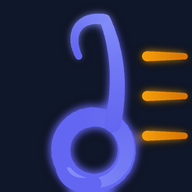
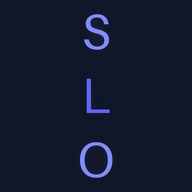
Simpelt ikon: S, L og O stablet lodret (S øverst, L midt, O nederst)

diff --git a/make_icon.py b/make_icon.py
@@ -1,6 +1,5 @@
-"""Songlist Organizer-ikon: g-nogle + listestroeger (simg saetliste)."""
-from PIL import Image, ImageDraw, ImageFilter
-import math
+"""Songlist Organizer-ikon: S, L, O stablet lodret (S oeverst, L midt, O nederst)."""
+from PIL import Image, ImageDraw, ImageFilter, ImageFont
 
 BG = (15, 23, 42)
 VIOLET = (129, 140, 248)
@@ -8,89 +7,32 @@ INDIGO = (99, 102, 241)
 GOLD = (245, 158, 11)
 
 
-def lerp(a, b, t):
-    return tuple(int(a[i] + (b[i] - a[i]) * t) for i in range(3))
-
-
-def bez(p0, p1, p2, p3, t):
-    mt = 1 - t
-    return (mt**3*p0[0] + 3*mt**2*t*p1[0] + 3*mt*t**2*p2[0] + t**3*p3[0],
-            mt**3*p0[1] + 3*mt**2*t*p1[1] + 3*mt*t**2*p2[1] + t**3*p3[1])
-
-
-def sample_bez(p0, p1, p2, p3, n):
-    return [bez(p0, p1, p2, p3, i/(n-1)) for i in range(n)]
-
-
-def arc_pts(cx, cy, r, a0, a1, n):
-    return [(cx + r*math.cos(math.radians(a0 + (a1-a0)*i/(n-1))),
-             cy + r*math.sin(math.radians(a0 + (a1-a0)*i/(n-1)))) for i in range(n)]
-
-
-def stroke(d, pts, radii, colors):
-    for i, (p, r, c) in enumerate(zip(pts, radii, colors)):
-        d.ellipse([p[0]-r, p[1]-r, p[0]+r, p[1]+r], fill=c+(255,))
-        if i > 0:
-            q = pts[i-1]
-            d.line([q[0], q[1], p[0], p[1]], fill=c+(255,), width=int(2*r))
-
-
-def clef_layers():
-    """Aegte g-nogle-form: bundspiral, lang stamme, krølle i toppen."""
-    layers = []
-    # 1) Bundspiral: stor rund loekke der snor sig ind i en spiral (g-noglens krop)
-    loop = arc_pts(250, 400, 88, 300, 980, 70)          # helt rundt og videre
-    spiral_in = arc_pts(250, 400, 88, 260, 500, 40)      # anden runde, let mindre
-    layers.append((loop, 20, 26, INDIGO, INDIGO))
-    layers.append((spiral_in, 26, 10, INDIGO, VIOLET))
-    # spiralens midtprik (g-noglens indre cirkel)
-    # 2) Stammen: fra loekkens topkryds og op til hoejre, let boejende
-    stem = sample_bez((300, 330), (330, 200), (300, 100), (280, 52), 100)
-    layers.append((stem, 22, 14, INDIGO, VIOLET))
-    # 3) Krøllen i toppen: snoer til venstre og ned igen (flaget)
-    top = sample_bez((280, 52), (210, 40), (180, 90), (210, 150), 60)
-    layers.append((top, 14, 9, VIOLET, INDIGO))
-    # 4) lille hage paa venstre side af loekken (som paa aegte noder)
-    chin = sample_bez((162, 400), (150, 470), (190, 505), (250, 490), 50)
-    layers.append((chin, 12, 20, INDIGO, INDIGO))
-    return layers
-
-
-def list_rows():
-    """Tre saetliste-raekker: guldprik + vandret streg."""
-    rows = []
-    ys = [150, 256, 362]
-    for i, y in enumerate(ys):
-        dot = [(392, y)]
-        line = sample_bez((392, y), (430, y), (460, y), (492, y), 30)
-        rows.append((dot, 13, 13, GOLD, GOLD))
-        rows.append((line, 13, 8, GOLD, (217, 119, 6)))
-    return rows
-
-
-def draw_icon(size, scale_motif=1.0, path=None):
+def draw_icon(size, scale=1.0, path=None):
     SS = 4
     W = size * SS
-    base = Image.new('RGBA', (W, W), BG+(255,))
+    base = Image.new('RGBA', (W, W), BG + (255,))
     glow = Image.new('RGBA', (W, W), (0, 0, 0, 0))
     gd = ImageDraw.Draw(glow)
     art = Image.new('RGBA', (W, W), (0, 0, 0, 0))
     d = ImageDraw.Draw(art)
 
-    S = W/512.0*scale_motif
-    off = (1-scale_motif)*W/2
+    font_size = int(W * 0.26 * scale)
+    font = ImageFont.load_default(size=font_size)
 
-    all_layers = clef_layers() + list_rows()
-    for pts, r0, r1, c0, c1 in all_layers:
-        n = len(pts)
-        pts = [(x*S+off, y*S+off) for (x, y) in pts]
-        div = max(n - 1, 1)
-        radii = [(r0 + (r1-r0)*i/div)*S for i in range(n)]
-        colors = [lerp(c0, c1, i/div) for i in range(n)]
-        stroke(d, pts, radii, colors)
-        stroke(gd, pts, [r*1.5 for r in radii], [c0]*n)
+    letters = [('S', VIOLET), ('L', INDIGO), ('O', VIOLET)]
+    n = len(letters)
+    slot = W * scale / n
+    x0 = (W - W * scale) / 2
 
-    glow = glow.filter(ImageFilter.GaussianBlur(W//40))
+    for i, (ch, col) in enumerate(letters):
+        cy = x0 + slot * (i + 0.5)
+        bbox = d.textbbox((0, 0), ch, font=font)
+        tw, th = bbox[2] - bbox[0], bbox[3] - bbox[1]
+        pos = (W / 2 - tw / 2 - bbox[0], cy - th / 2 - bbox[1])
+        d.text(pos, ch, font=font, fill=col + (255,))
+        gd.text(pos, ch, font=font, fill=col + (160,))
+
+    glow = glow.filter(ImageFilter.GaussianBlur(W // 40))
     out = Image.alpha_composite(base, glow)
     out = Image.alpha_composite(out, art)
     out = out.resize((size, size), Image.LANCZOS)
@@ -102,5 +44,5 @@ def draw_icon(size, scale_motif=1.0, path=None):
 if __name__ == '__main__':
     draw_icon(192, path='icons/icon-192.png')
     draw_icon(512, path='icons/icon-512.png')
-    draw_icon(512, scale_motif=0.74, path='icons/icon-maskable-512.png')
+    draw_icon(512, scale=0.72, path='icons/icon-maskable-512.png')
     print('ok')
